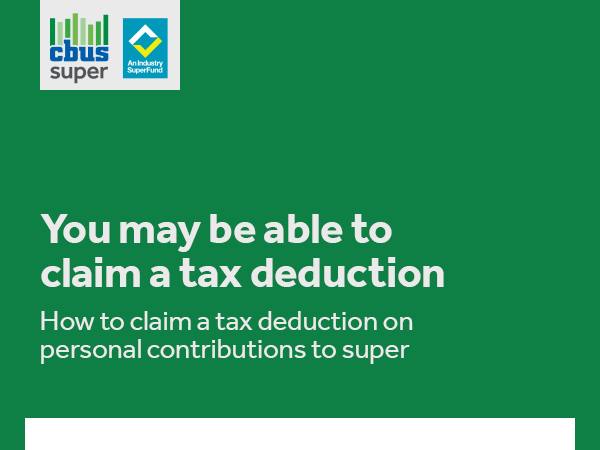
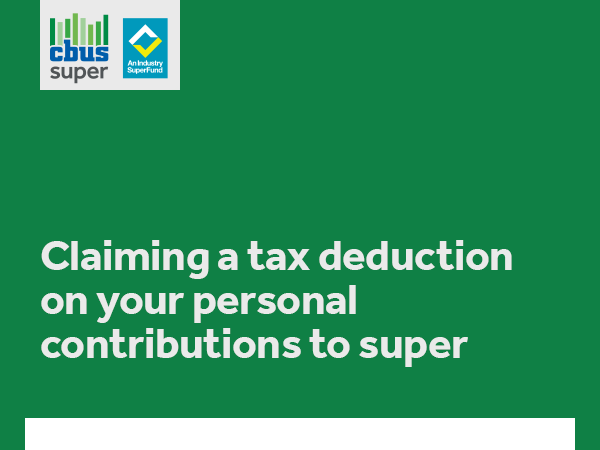
update tax red. feedback #1

Changed region(s): [[0.06, 0.4667, 0.87, 0.8089]]

diff --git a/emails/2022/com/tax-deducation/index.html b/emails/2022/com/tax-deducation/index.html
@@ -81,7 +81,7 @@ a {text-decoration: none;}
           <!-- Hero banner -->
             <div style="color: #0F8045;font-weight: bold;font-size: 30px;line-height: 154px;" align="center">
               <img style="border: 0;display: block;height: auto;width: 100%;max-width: 600px;" 
-                alt="How to claim a tax deduction on personal contributions to super" width="600" 
+                alt="Claiming a tax deduction on your personal contributions to super." width="600" 
                 src="img/hero.png">
             </div>
   
@@ -146,7 +146,7 @@ a {text-decoration: none;}
               </td>
               <td style="color: #454545;font-family: Hind,Calibri,Arial,sans-serif;font-size: 18px;line-height: 24px;padding-left: 8px;">
                   <p class="size-22" style="Margin-top: 0;Margin-bottom: 22px;font-size: 22px;line-height: 26px;text-align: left;" lang="x-size-22">
-                    Download the Notice of intent to claim a tax deduction for personal contributions to super fact sheet <a class="hover" target="_blank" style="color: #13767D; font-weight: bold;" href="https://www.cbussuper.com.au/content/dam/cbus/files/forms-publications/tax/Cbus-how-to-claim-tax-deduction-super-contributions.pdf">here</a>. 
+                    Download the <a class="hover" target="_blank" style="color: #13767D; font-weight: bold;" href="https://www.cbussuper.com.au/content/dam/cbus/files/forms-publications/tax/Cbus-how-to-claim-tax-deduction-super-contributions.pdf">Notice of intent to claim a tax deduction for personal contributions to super</a> fact sheet here. 
                   </p>
               </td>
               <td valign="top" class="" style="width: 30px;padding-right:6px;">
@@ -222,20 +222,14 @@ a {text-decoration: none;}
               <div style="mso-line-height-rule: exactly;line-height: 34px;font-size: 1px;">&nbsp;</div>
             </div>
 
-              <!-- Heading (size-28)-->
-              <div style="Margin-left: 40px;Margin-right: 30px;Margin-top: 24px;">
-                <div style="mso-line-height-rule: exactly;mso-text-raise: 11px;vertical-align: middle;">
-                  <p class="size-28" style="Margin-top: 0;Margin-bottom: 20px;font-size: 24px;line-height: 32px;" lang="x-size-28">
-                    <strong>Once you receive a response from us, you can lodge your tax return.</strong>
-                  </p>
-                </div>
-              </div>
-
         <!-- Text -->
           <div style="Margin-left: 40px;Margin-right: 40px;Margin-bottom: 24px;">
             <div style="mso-line-height-rule: exactly;mso-text-raise: 11px;vertical-align: middle;">
               <p class="size-22" style="Margin-top: 0;Margin-bottom: 0;">
-                If you’ve already sent us a copy of the ATO Notice of intent to claim or vary a deduction for personal super contribution form, we’ll use that form instead. You don’t need to apply again.
+                Once you receive a response from us, you can lodge your tax return.
+              </p>
+              <p class="size-22" style="Margin-top: 20px;Margin-bottom: 0;">
+                If you’ve already sent us a copy of the <i>ATO Notice of intent to claim or vary a deduction for personal super</i> contribution form, we’ll use that form instead. You don’t need to apply again.
               </p>
               <p class="size-22" style="Margin-top: 20px;Margin-bottom: 0;">
                 To double check the total amount of personal contributions you’ve made this year, simply <a class="hover" target="_blank" style="color: #454545; font-weight: bold;" href="https://www.cbussuper.com.au/manage-account/super/login?id=">log on</a> to member online or give us a call on <a class="hover" target="_blank" style="color: #454545; font-weight: bold;" href="tel:1300 361 784">1300 361 784</a> (8am to 8pm AEST weekdays).
@@ -330,7 +324,7 @@ a {text-decoration: none;}
           <div style="Margin-left: 40px;Margin-right: 30px;Margin-top: 0;">
             <div style="mso-line-height-rule: exactly;mso-text-raise: 11px;vertical-align: middle;">
               <p class="size-22" style="Margin-top: 0;Margin-bottom: 20px;font-size: 24px;line-height: 32px;" lang="x-size-22">
-                <strong style="color: #4c9e45;">If you're planning to keep contributing in 2022/2 3</strong>
+                <strong style="color: #4c9e45;">If you're planning to keep contributing in 2022/23</strong>
               </p>
             </div>
           </div>
@@ -338,7 +332,7 @@ a {text-decoration: none;}
           <div style="Margin-left: 40px;Margin-right: 40px;Margin-bottom: 24px;">
             <div style="mso-line-height-rule: exactly;mso-text-raise: 11px;vertical-align: middle;">
               <p class="size-22" style="Margin-top: 0;Margin-bottom: 0;font-size: 18px;line-height: 26px;text-align: left;" lang="x-size-22">
-                If you intend to claim a tax deduction for personal contributions in the 2022/23 financial year, there may be some requirements you need to meet, known as the ‘work test’. To meet the work test you must be employed for at least 40 hours during a consecutive 30-day period in the financial year in which your contributions are made. For more information on eligibility requirements visit ato.gov.au or give us a call if you need help.
+                If you intend to claim a tax deduction for personal contributions in the 2022/23 financial year, there may be some requirements you need to meet, known as the ‘work test’. To meet the work test you must be employed for at least 40 hours during a consecutive 30-day period in the financial year in which your contributions are made. For more information on eligibility requirements visit <a class="hover" target="_blank" style="color: #454545; font-weight: bold;" href="https://www.ato.gov.au">ato.gov.au</a> or give us a call if you need help.
               </p>
             </div>
           </div>

diff --git a/emails/landing-pages/2022/event/beneficiaries.html b/emails/landing-pages/2022/event/beneficiaries.html
@@ -70,7 +70,7 @@
 					<div class="p-5 bg-white rounded shadow-box m-2 mb-4">
 						<p class="font-medium text-brand-gray">30 mins</p>
 						<p class="lg:text-3xl text-xl font-heavy">Insurance & Beneficiaries</p>
-						<p class="pt-3 text-xl text-blue-500">{{ item.date }}</p>
+						<p class="pt-3 text-xl text-blue-500">{{ item.date }} AEST</p>
 						<!-- Flex columns -->
 						<div class="pt-3">
 							<div class="flex flex-wrap">
@@ -202,9 +202,10 @@
 		data: {
 			current: 1,
 			items: [
-				{ date: 'Thu, May 26, 7:00 PM', url: 'https://www.comms.cbussuper.com.au/link/id/zzzz62747f2586568462/regform?evuid=zzzz62747f24c608d940'},
-				{ date: 'Thu, June 9, 12:00 PM', url: 'https://www.comms.cbussuper.com.au/link/id/zzzz6279e7d01a402091/regform?evuid=zzzz6279e7cf48a43211'},
-				{ date: 'Fri, June 10, 12:00 PM', url: 'https://www.comms.cbussuper.com.au/link/id/zzzz6279e7d01a402091/regform?evuid=zzzz6279e7cf48a43211'},
+				{ date: 'Thu, July 28, 5:00 PM', url: 'http://www.comms.cbussuper.com.au/link/id/zzzz62a0228396ac4731/regform?evuid=zzzz62a02282c4b87041'},
+				{ date: 'Tue, Sep 20, 12:00 PM', url: 'https://www.comms.cbussuper.com.au/link/id/zzzz5ea261ab22d45874/regform?evuid=zzzz62cd3d7909361680'},
+				{ date: 'Wed, Oct 19, 7:00 PM', url: 'https://www.comms.cbussuper.com.au/link/id/zzzz5ea261ab22d45874/regform?evuid=zzzz62cd3d79930e0483'},
+				{ date: 'Thu, Nov 17, 5:00 PM', url: 'https://www.comms.cbussuper.com.au/link/id/zzzz5ea261ab22d45874/regform?evuid=zzzz62cd3d7a18876552'},
 			],
 		},
 	});
